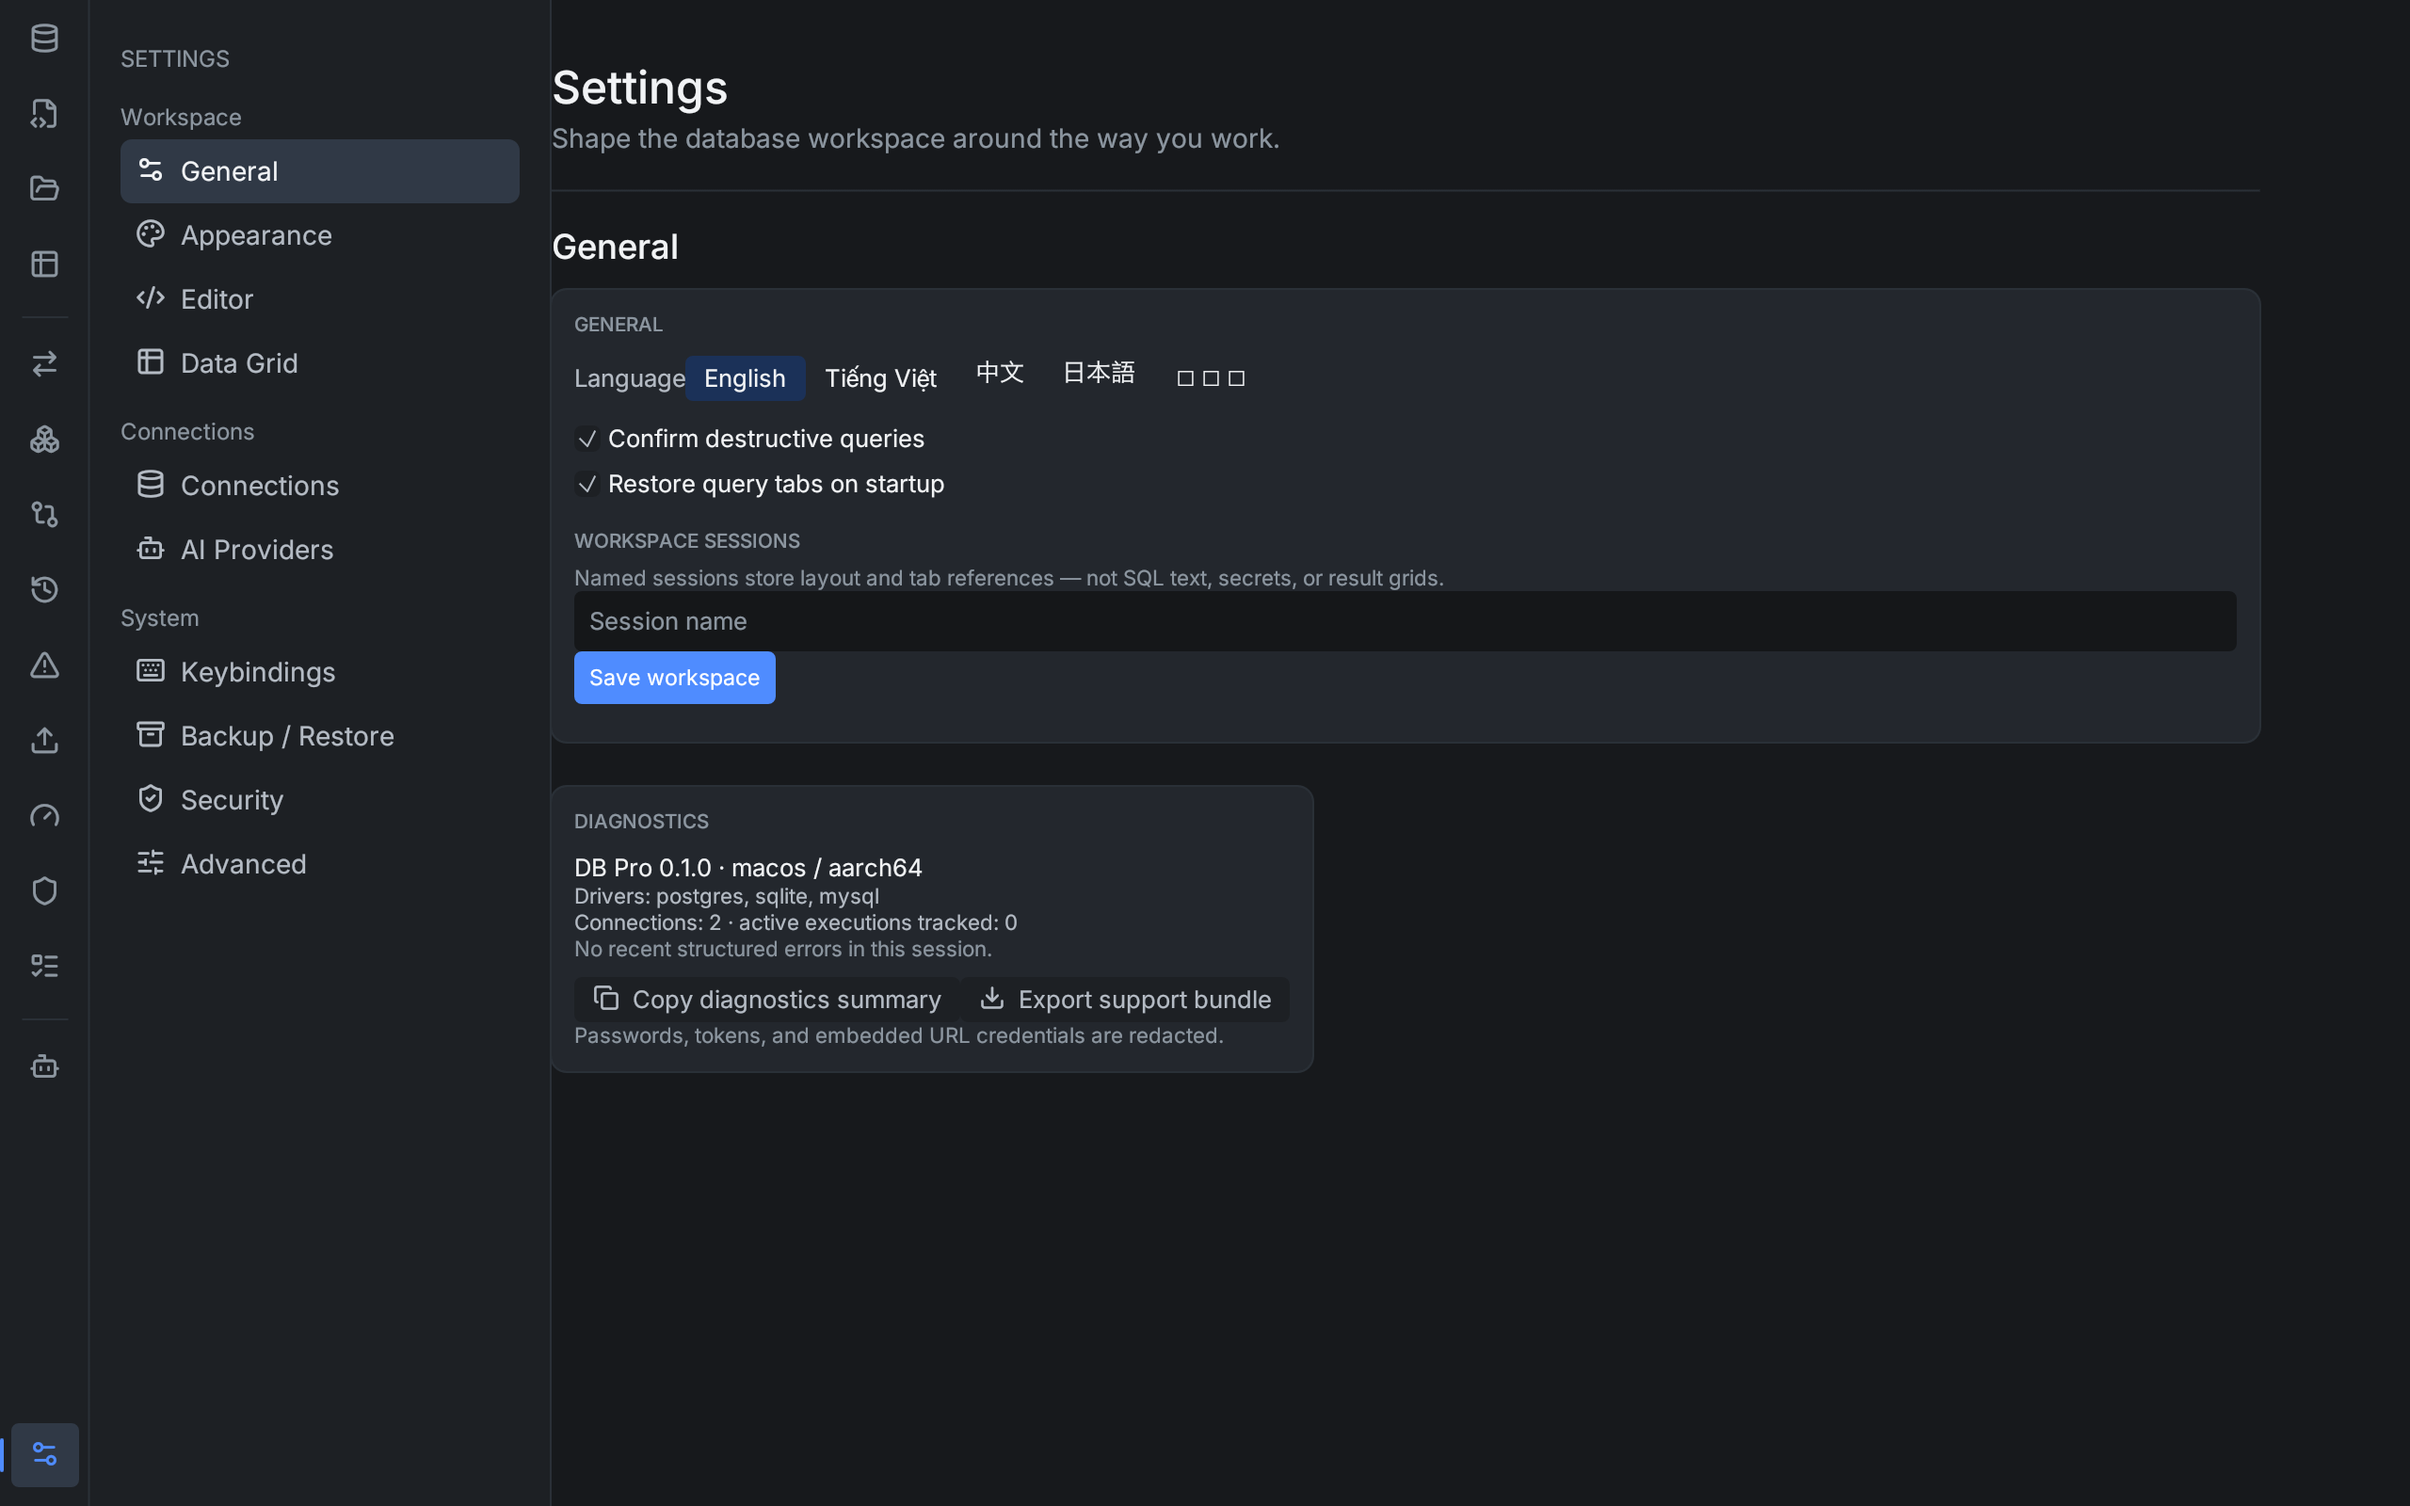
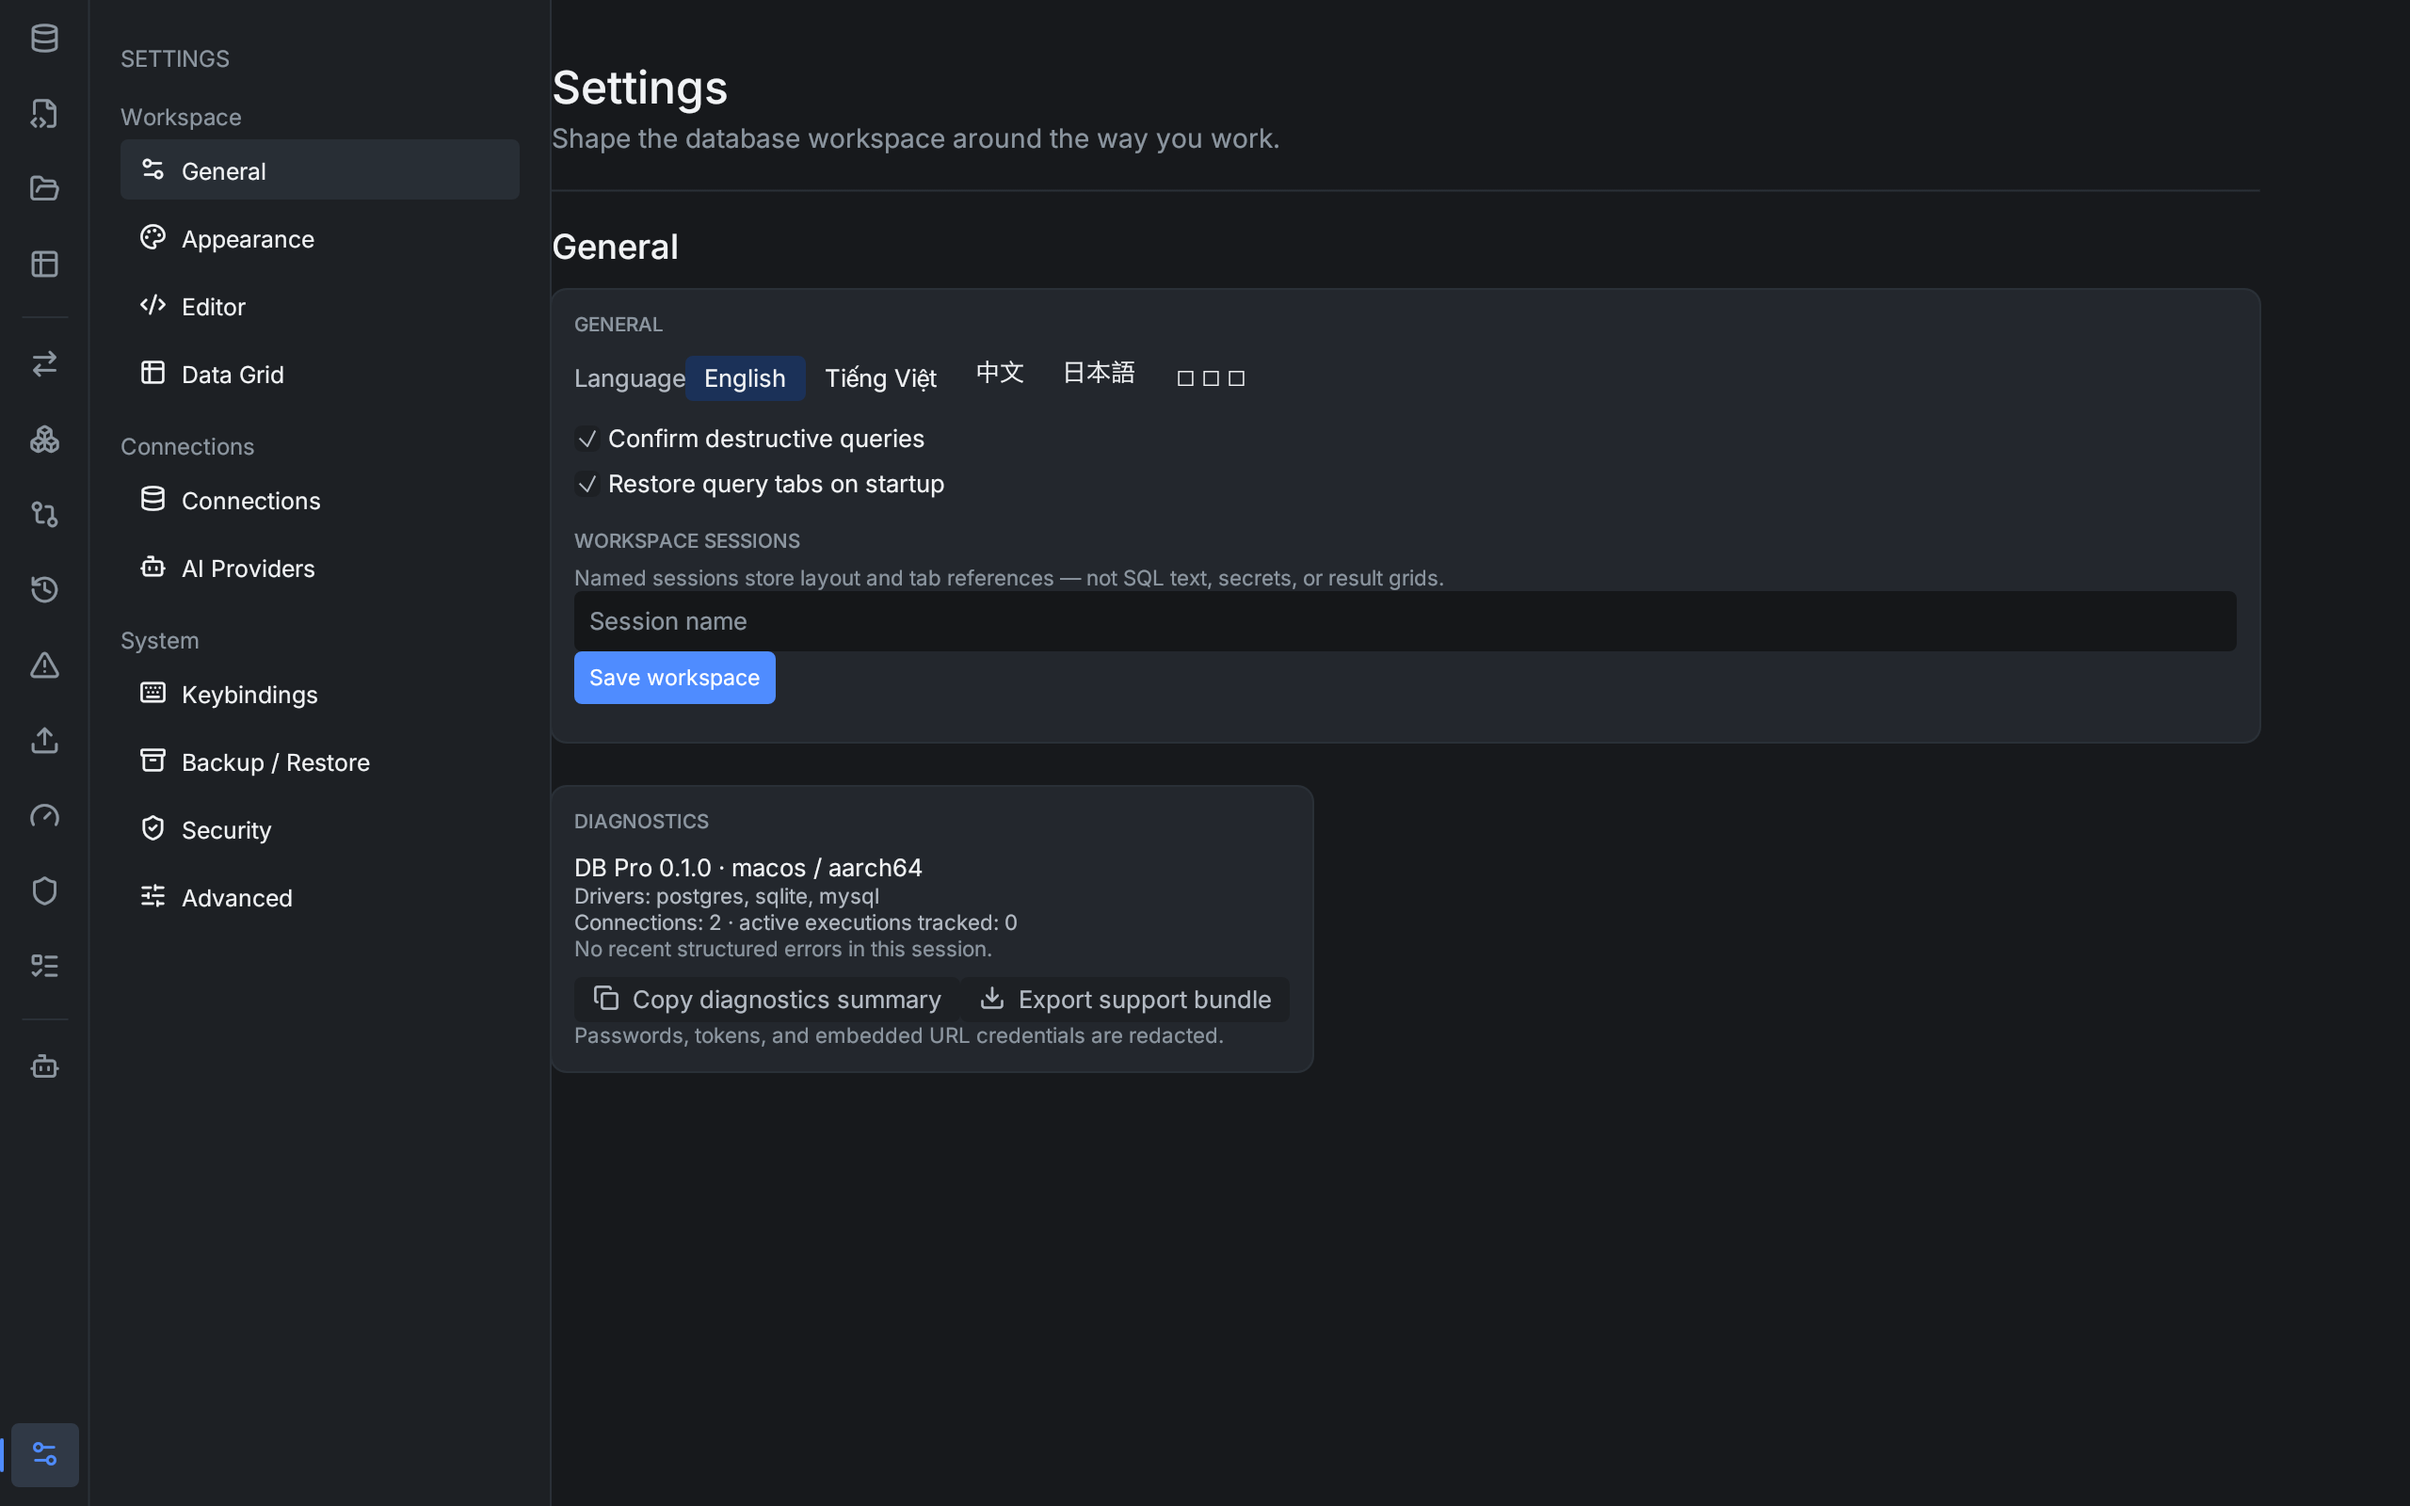
docs(plan): refresh settings variant evidence

Changed region(s): [[0.0312, 0.4062, 0.1562, 0.625], [0.0625, 0.0938, 0.1562, 0.25], [0.0312, 0.2812, 0.1562, 0.4062]]

diff --git a/docs/plans/active/settings-shell-visual-polish/AGENT_EVIDENCE.md b/docs/plans/active/settings-shell-visual-polish/AGENT_EVIDENCE.md
@@ -14,7 +14,7 @@
 
 ## 2. Progress checkpoint
 
-- Current HEAD: `fb57eebf1426328078a5aefa13c0dcf5ce7b0c7c`
+- Current implementation baseline: `fb57eebf1426328078a5aefa13c0dcf5ce7b0c7c`; follow-up visual correction: `bb5830edf8a3775a3eb0d2e7b2087ffd952b582f`
 - Completed acceptance rows: [x] dedicated Settings surface, [x] normal Settings chrome suppressed, [x] grouped navigation with active/hover states, [x] existing action/state pipeline preserved, [x] light/dark 1280×800 captures, [x] automated Rust gates and locked release build.
 - Remaining acceptance rows: [ ] independent review; [ ] exact-height 1440×900 and 1920×1080 captures on a host without the current height cap.
 - Findings / risks: P2 visual hierarchy findings F-1/F-2 in `FINDINGS.md:3-27` are addressed by `app_lifecycle.rs:172-208`, `workspace_view.rs:85-90`, and `settings_surface_view.rs:40-156`; no open P0/P1.
@@ -25,8 +25,8 @@
 
 | Field | Value |
 |---|---|
-| Exact SHA | `fb57eebf1426328078a5aefa13c0dcf5ce7b0c7c` |
-| Commit list | `fb57eebf feat(ui): redesign native settings shell` |
+| Exact SHA | `bb5830edf8a3775a3eb0d2e7b2087ffd952b582f` |
+| Commit list | `fb57eebf feat(ui): redesign native settings shell`; `bb5830ed refactor(ui): unify disclosure components` — includes the Settings navigation variant correction |
 | File / surface inventory | `AGENTS.md` — records the owner rule to edit local `main` and never create/use worktrees; `crates/ui/src/app_lifecycle.rs` — Settings shell chrome routing; `crates/ui/src/settings_model.rs` — removes obsolete navigation helper; `crates/ui/src/settings_navigation_view.rs` — grouped semantic navigation rail; `crates/ui/src/settings_surface_view.rs` — full Settings surface composition; `crates/ui/src/shell_frame_view.rs` — Settings background/margin mode; `crates/ui/src/workspace_actions.rs` — deterministic light capture switch; `crates/ui/src/workspace_view.rs` — Settings central rendering route; `docs/plans/STATUS.md` — lifecycle status; `docs/plans/active/settings-shell-visual-polish/` — plan, checklist, findings, verification, evidence, and four runtime captures.` |
 | Acceptance mapping | Dedicated surface/chrome suppression → `app_lifecycle.rs`, `shell_frame_view.rs`, `workspace_view.rs`; grouped active navigation → `settings_navigation_view.rs`; semantic light/dark rendering → `settings_surface_view.rs` and existing `DbProTheme`; runtime evidence → `screenshots/*.png`; gate evidence → `VERIFICATION.md`. |
 | Commands and counts | `cargo fmt --all -- --check` → pass, exit 0; `cargo check --workspace` → pass, exit 0; `cargo clippy --workspace --all-targets -- -D warnings` → pass, exit 0; `cargo test --workspace` → 1585 passed / 0 failed / 41 ignored, exit 0; `cargo build --release --locked -p db-pro-native` → pass, exit 0; `bash .skills/clean-code/scripts/clean-code-scan.sh rust --diff --ratchet --ci` → 15 pass / 1 warning / 0 fail, exit 0.` |
@@ -39,7 +39,7 @@
 
 | Field | Value |
 |---|---|
-| Reviewed SHA | `fb57eebf1426328078a5aefa13c0dcf5ce7b0c7c` |
+| Reviewed SHA | `bb5830edf8a3775a3eb0d2e7b2087ffd952b582f` |
 | Verdict | `ACCEPT WITH P2` for self-review; independent review not run |
 | P0 / P1 / P2 counts | Introduced by this SHA: 0 / 0 / 2 addressed visual findings plus 2 verification limitations; inherited: 0 / 0 / 1 clean-code size warning |
 | Findings | No open P0/P1. P2: host height cap prevents exact 1440×900 and 1920×1080 evidence; independent review is still required before lifecycle completion. |
@@ -50,7 +50,7 @@
 
 - Source date: 2026-09-30.
 - Source URLs / references: supplied light/dark screenshots; `docs/10-egui-native-migration-plan.md`; `.cursor/skills/frontend-design/SKILL.md`; `.skills/clean-code/SKILL.md`.
-- Factual findings: the implementation uses existing `DbProTheme` semantic surfaces and keeps settings action/state behavior unchanged at `fb57eebf1426328078a5aefa13c0dcf5ce7b0c7c`.
+- Factual findings: the implementation uses existing `DbProTheme` semantic surfaces, keeps settings action/state behavior unchanged, and applies the shared button variant correction at `bb5830edf8a3775a3eb0d2e7b2087ffd952b582f`.
 - Inference: the dedicated central composition is the closest native-egui equivalent to the supplied reference without restoring the archived web frontend.
 - Decision / recommendation: retain `RUNTIME_VERIFY` until independent review and exact-height evidence are available.
 - Unresolved questions: none beyond the evidence limitations above.

diff --git a/docs/plans/active/settings-shell-visual-polish/VERIFICATION.md b/docs/plans/active/settings-shell-visual-polish/VERIFICATION.md
@@ -5,6 +5,7 @@
 - Base SHA: `bd0535fb`.
 - Working branch: local `main` per explicit user workflow override.
 - Implementation commit: `fb57eebf1426328078a5aefa13c0dcf5ce7b0c7c`.
+- Follow-up visual correction: `bb5830edf8a3775a3eb0d2e7b2087ffd952b582f` — Settings navigation now uses the shared `ButtonVariant::Ghost` / `ButtonVariant::Secondary` treatment, so inactive items stay transparent and the surface appears only on hover or active state.
 
 ## Runtime evidence
 
@@ -15,8 +16,9 @@
 | 1440×900 | 2880×1676 (Retina 2×, host-capped height) | Dark | `screenshots/settings-dark-1440x900-capped.png` |
 | 1920×1080 | 3840×1676 (Retina 2×, host-capped height) | Dark | `screenshots/settings-dark-1920x1080-capped.png` |
 
-The captures were visually inspected. They show the dedicated Settings surface,
-grouped navigation, active General pill, layered background, and existing
+The captures were visually inspected after the follow-up variant correction.
+They show the dedicated Settings surface, grouped navigation, a semantic active
+General pill, transparent inactive navigation, layered background, and existing
 General/Diagnostics content. The host capture path produces a 2× Retina
 framebuffer and caps logical height at approximately 838px, so the 1440×900
 and 1920×1080 artifacts are valid width checks but not exact-height evidence.
